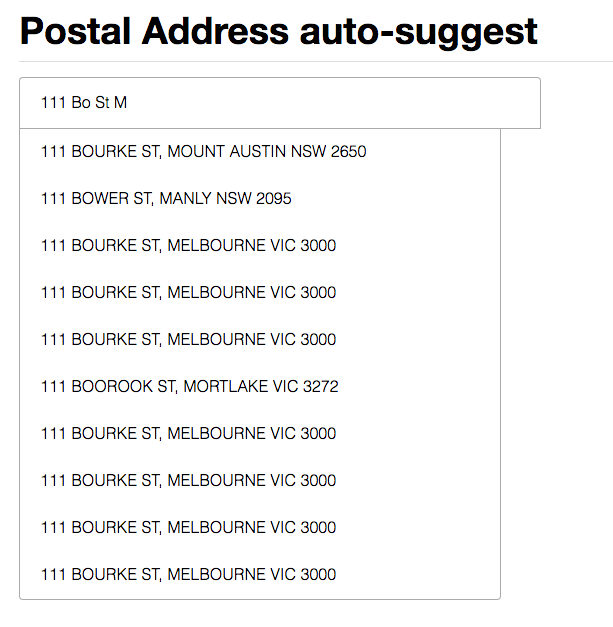
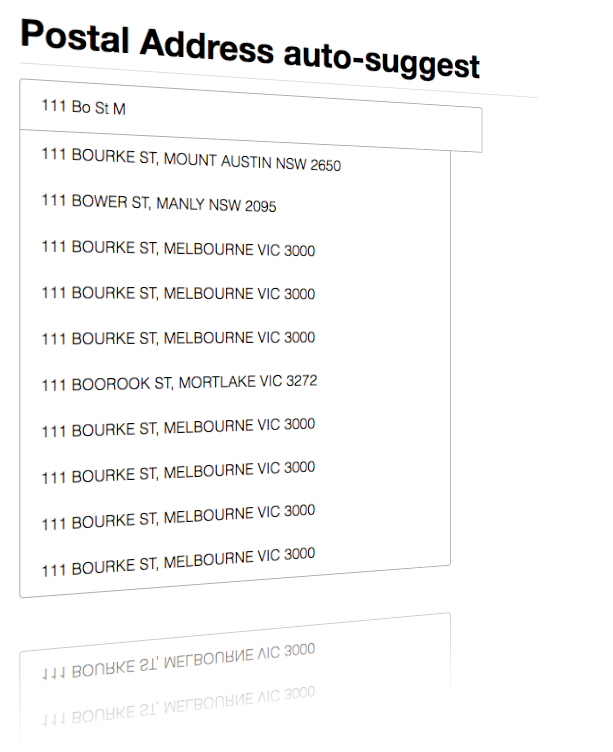
Update postal address auto-suggest screenshot and add link in README.md

Changed region(s): [[0.031, 0.0303, 0.8989, 0.8182], [0.062, 0.8182, 0.5579, 0.9697]]

diff --git a/auto-suggest/README.md b/auto-suggest/README.md
@@ -13,3 +13,25 @@ The open index.html file in Chrome browser or start simple HTTP server:
 ```sh
 𝜆 python -m SimpleHTTPServer 8000
 ```
+
+Input a few like:
+ 
+- 111 Bourke St Melbourne VIC 3000
+
+![alt text](https://raw.githubusercontent.com/TerrenceMiao/ReactJS/master/auto-suggest/Postal%20Address%20-%20111%20Bourke%20St.png "111 Bourke St Melbourne VIC 3000")
+
+- 18 St Johns Wood Rd Mount Waverley VIC 3149 
+- 146 St Kilda Rd St Kilda VIC 3182
+- 18 Balfour Cl Point Cook VIC 3030
+- 28 Middle Park Dr Point Cook VIC 3030
+
+to see how fewer keystrokes can let the target postal address on the top of the list. And a few more:
+
+- NSW
+- TAS
+- 3080
+- 3081
+- Middle Park VIC
+- 10002
+
+to see what could come up.
